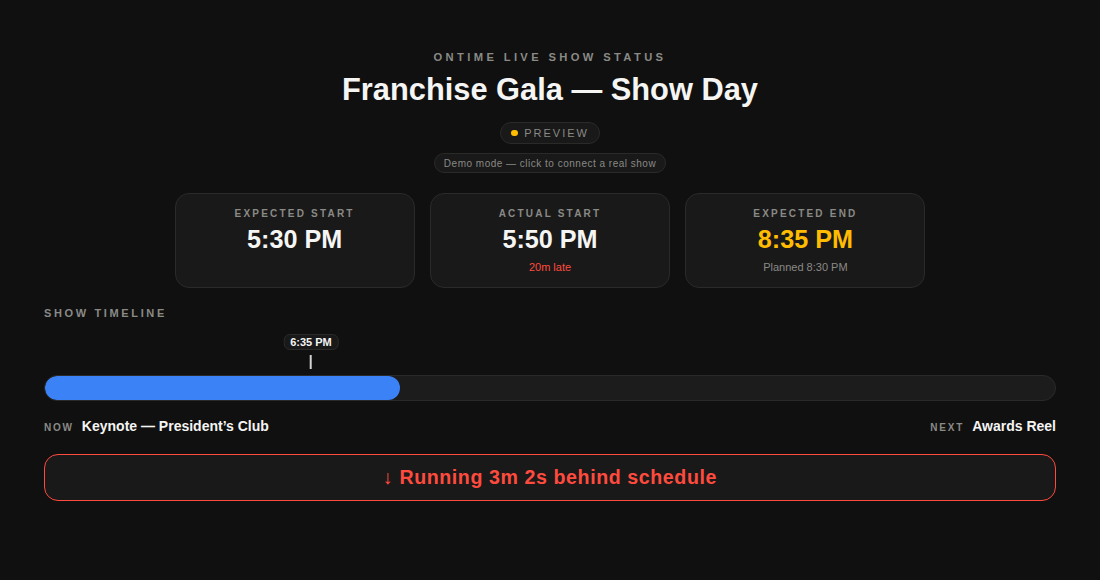
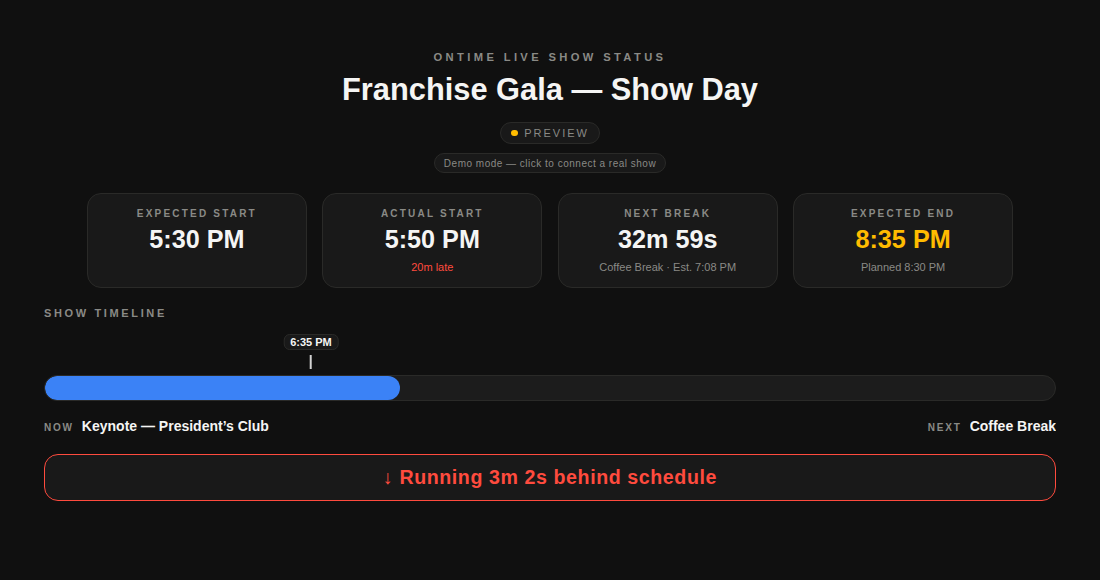
Add Next Break card: counts down to the next green-coloured rundown line, adjusted for live pacing

Changed region(s): [[0.34, 0.3414, 0.8655, 0.4655], [0.1236, 0.3414, 0.3091, 0.4345], [0.8345, 0.7138, 0.9582, 0.7448]]

diff --git a/index.html b/index.html
@@ -115,13 +115,13 @@
     flex-wrap: wrap;
     justify-content: center;
     gap: 1.4vw;
-    max-width: 780px;
+    max-width: 1000px;
     width: 100%;
     margin: 0 auto;
   }
   #cards .card {
-    flex: 1 1 180px;
-    max-width: 240px;
+    flex: 1 1 160px;
+    max-width: 220px;
   }
   @media (max-width: 560px) {
     #cards .card { flex: 1 1 45%; max-width: none; }
@@ -514,6 +514,11 @@
       <div class="card-sub" id="actualStartSub"></div>
     </div>
     <div class="card">
+      <div class="card-label">Next Break</div>
+      <div class="card-value" id="nextBreak">—</div>
+      <div class="card-sub" id="nextBreakSub"></div>
+    </div>
+    <div class="card">
       <div class="card-label">Expected End</div>
       <div class="card-value" id="expectedEnd">—</div>
       <div class="card-sub" id="expectedEndSub"></div>
@@ -611,6 +616,8 @@
   const $actualStartSub = document.getElementById('actualStartSub');
   const $expectedEnd = document.getElementById('expectedEnd');
   const $expectedEndSub = document.getElementById('expectedEndSub');
+  const $nextBreak = document.getElementById('nextBreak');
+  const $nextBreakSub = document.getElementById('nextBreakSub');
   const $timelineFill = document.getElementById('timelineFill');
   const $timelineMarker = document.getElementById('timelineMarker');
   const $markerTime = document.getElementById('markerTime');
@@ -630,7 +637,17 @@
     eventNow: null,
     eventNext: null,
     timer: null,
+    entries: null,               // flattened rundown [{ id, title, colour, timeStart, timeEnd, skip }]
   };
+
+  /* A "green line" is this pipeline's break/walk-in/walk-out colour convention
+   * (#77C785). Also matches any named/hex colour containing "green" in case a
+   * show was colour-coded by hand directly in Ontime. */
+  function isGreenColour(colour) {
+    if (!colour || typeof colour !== 'string') return false;
+    const c = colour.trim().toLowerCase();
+    return c === '#77c785' || c.includes('green');
+  }
 
   /* ---------- Formatting helpers ---------- */
   function formatClock(msOfDay) {
@@ -718,6 +735,62 @@
       $expectedEndSub.className = 'card-sub';
     }
 
+    /* Time to next break: scan the fetched rundown, starting just after the
+     * currently playing cue, for the next green-coloured line. Projects its
+     * arrival using the live offset, the same pacing signal used elsewhere. */
+    $nextBreak.classList.remove('muted', 'late', 'early');
+    if (state.entries && state.entries.length) {
+      const anchorIdx = (state.eventNow && state.eventNow.id)
+        ? state.entries.findIndex((e) => e.id === state.eventNow.id)
+        : -1;
+      const onBreakNow = anchorIdx !== -1 && isGreenColour(state.entries[anchorIdx].colour);
+      if (onBreakNow) {
+        $nextBreak.textContent = 'Now';
+        $nextBreakSub.textContent = state.entries[anchorIdx].title
+          ? ('On break · ' + state.entries[anchorIdx].title)
+          : 'On break';
+        $nextBreakSub.className = 'card-sub good';
+      } else {
+        const searchFrom = anchorIdx === -1 ? 0 : anchorIdx + 1;
+        let found = null;
+        for (let i = searchFrom; i < state.entries.length; i++) {
+          const e = state.entries[i];
+          if (e.skip) continue;
+          if (isGreenColour(e.colour)) { found = e; break; }
+        }
+        if (found && typeof found.timeStart === 'number') {
+          const offMs = (off && off.mode === 'relative' && typeof off.relative === 'number')
+            ? off.relative
+            : (off && typeof off.absolute === 'number' ? off.absolute : 0);
+          const projected = found.timeStart + offMs;
+          if (nowMs !== null) {
+            const remain = projected - nowMs;
+            if (remain <= 0) {
+              $nextBreak.textContent = 'Now';
+              $nextBreakSub.textContent = found.title || 'Break underway';
+            } else {
+              $nextBreak.textContent = formatDuration(remain);
+              $nextBreakSub.textContent = (found.title ? found.title + ' · ' : '') + 'Est. ' + formatClock(projected);
+            }
+          } else {
+            $nextBreak.textContent = formatClock(projected);
+            $nextBreakSub.textContent = found.title || '';
+          }
+          $nextBreakSub.className = 'card-sub';
+        } else {
+          $nextBreak.textContent = '—';
+          $nextBreak.classList.add('muted');
+          $nextBreakSub.textContent = 'No more breaks';
+          $nextBreakSub.className = 'card-sub';
+        }
+      }
+    } else {
+      $nextBreak.textContent = '—';
+      $nextBreak.classList.add('muted');
+      $nextBreakSub.textContent = '';
+      $nextBreakSub.className = 'card-sub';
+    }
+
     /* Timeline */
     if (rd && nowMs !== null) {
       const visualEnd = Math.max(rd.plannedEnd, (off && off.expectedRundownEnd) || rd.plannedEnd, nowMs);
@@ -794,8 +867,37 @@
     }
     if (msg.tag === 'refetch') {
       fetchRundownTitle();
+      fetchRundownEntries();
       return;
     }
+  }
+
+  /* ---------- Full rundown (fetched over HTTP; used to find the next green
+   * "break" line — this is persisted project data, not part of the lightweight
+   * runtime state pushed over the WebSocket) ---------- */
+  async function fetchRundownEntries() {
+    try {
+      const res = await fetch(HTTP_BASE + '/data/rundowns/current', { cache: 'no-store' });
+      if (!res.ok) return;
+      const data = await res.json();
+      const order = (Array.isArray(data?.flatOrder) && data.flatOrder.length) ? data.flatOrder : data?.order;
+      const dict = data?.entries;
+      if (!Array.isArray(order) || !dict || typeof dict !== 'object') return;
+      const list = [];
+      for (const id of order) {
+        const entry = dict[id];
+        if (!entry) continue;
+        list.push({
+          id: entry.id ?? id,
+          title: entry.title || '',
+          colour: entry.colour || '',
+          timeStart: typeof entry.timeStart === 'number' ? entry.timeStart : null,
+          timeEnd: typeof entry.timeEnd === 'number' ? entry.timeEnd : null,
+          skip: !!entry.skip,
+        });
+      }
+      state.entries = list;
+    } catch { /* keep the previously fetched list rather than clearing it */ }
   }
 
   /* ---------- Rundown / session name (fetched over HTTP) ---------- */
@@ -870,6 +972,7 @@
       $hint.style.display = 'none';
       ws.send(JSON.stringify({ tag: 'poll' }));
       fetchRundownTitle();
+      fetchRundownEntries();
     };
 
     ws.onmessage = (e) => handleMessage(e.data);
@@ -902,8 +1005,15 @@
     const base = 17 * 3600_000 + 30 * 60_000; // 5:30 PM in ms-of-day
     state.rundown = { plannedStart: base, plannedEnd: base + 3 * 3600_000, actualStart: base + 20 * 60_000, numEvents: 47, selectedEventIndex: 23 };
     state.offset = { absolute: 182_000, relative: 182_000, mode: 'absolute', expectedRundownEnd: base + 3 * 3600_000 + 5 * 60_000 };
-    state.eventNow = { title: 'Keynote — President\u2019s Club' };
-    state.eventNext = { title: 'Awards Reel' };
+    state.eventNow = { id: 'e2', title: 'Keynote — President\u2019s Club' };
+    state.eventNext = { id: 'e3', title: 'Coffee Break' };
+    state.entries = [
+      { id: 'e1', title: 'Doors / Walk In', colour: '#77C785', timeStart: base - 20 * 60_000, timeEnd: base, skip: false },
+      { id: 'e2', title: 'Keynote — President\u2019s Club', colour: '#779BE7', timeStart: base + 20 * 60_000, timeEnd: base + 80 * 60_000, skip: false },
+      { id: 'e3', title: 'Coffee Break', colour: '#77C785', timeStart: base + 95 * 60_000, timeEnd: base + 110 * 60_000, skip: false },
+      { id: 'e4', title: 'Awards Reel', colour: '#779BE7', timeStart: base + 115 * 60_000, timeEnd: base + 170 * 60_000, skip: false },
+      { id: 'e5', title: 'Walk Out', colour: '#77C785', timeStart: base + 170 * 60_000, timeEnd: base + 175 * 60_000, skip: false },
+    ];
     state.clock = base + 65 * 60_000;
     state.clockReceivedAt = performance.now();
     $lastUpdatedTime.textContent = new Date().toLocaleTimeString();

diff --git a/README.md b/README.md
@@ -37,9 +37,11 @@ sharper than "running a few minutes behind."
 
 ## What you get
 
-- **Expected / Actual Start, Expected End** — three clean cards. Expected End shows the live
-  projected finish time, colored amber when it's trending late and green when it's trending
-  early; a small "Planned" line underneath keeps the original schedule in view.
+- **Expected / Actual Start, Next Break, Expected End** — four clean cards. Next Break finds
+  the next green-coloured line in your rundown and counts down to it, adjusted for how the
+  show is actually running — not just the planned time. Expected End shows the live projected
+  finish time, colored amber when it's trending late and green when it's trending early; a
+  small "Planned" line underneath keeps the original schedule in view.
 - **Show timeline** — a progress bar from the event's planned start to end, with a live
   "now" marker, so anyone can see where the show actually is at a glance.
 - **Now / Next** — the currently running cue and what's coming up next.
